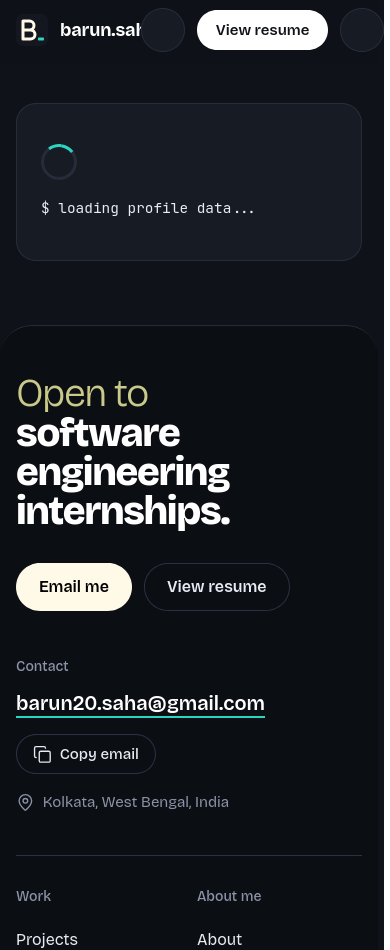
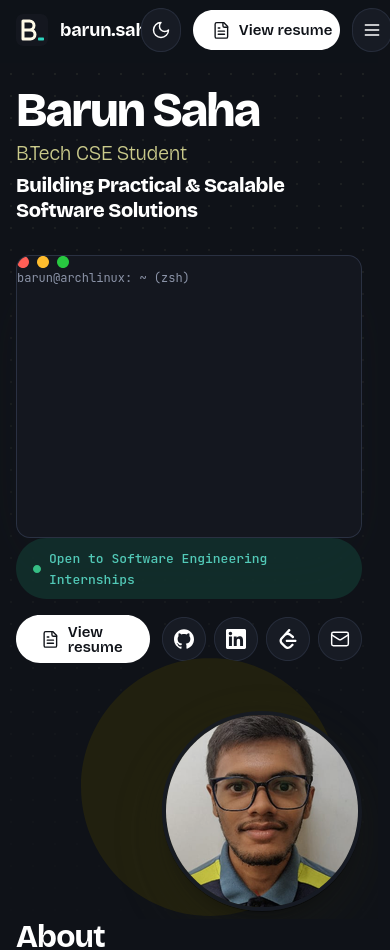
fix(site): render content immediately and support hero #top landmark in initPortfolio

diff --git a/index.html b/index.html
@@ -103,7 +103,7 @@
 
   <!-- Loading & Error Fallbacks -->
   <div class="wrap">
-    <div id="loading-indicator" class="loading-indicator" role="status" aria-live="polite">
+    <div id="loading-indicator" class="loading-indicator" style="display: none;" role="status" aria-live="polite">
       <div class="loading-spinner"></div>
       <p style="font-family: var(--font-mono); color: var(--muted); font-size: 0.9rem;">$ loading profile data...</p>
     </div>
@@ -116,7 +116,7 @@
   </div>
 
   <!-- Main Dynamic Site Content -->
-  <main id="main-content" class="site-main" style="display: none;">
+  <main id="main-content" class="site-main">
     
     <!-- Hero Section -->
     <section id="top" class="hero hero-section" aria-label="Introduction">

diff --git a/assets/js/main.js b/assets/js/main.js
@@ -5,7 +5,7 @@
  */
 
 document.addEventListener('DOMContentLoaded', () => {
-  if (document.getElementById('hero')) {
+  if (document.getElementById('top') || document.getElementById('hero') || document.getElementById('main-content')) {
     initPortfolio();
   }
 });
@@ -143,7 +143,7 @@ function initTerminalTyper(data) {
     renderFinal();
   };
 
-  const heroSection = document.getElementById('hero');
+  const heroSection = document.getElementById('top') || document.getElementById('hero');
   if (heroSection) {
     heroSection.addEventListener('click', skipSequence, { once: true });
     heroSection.addEventListener('keydown', skipSequence, { once: true });
